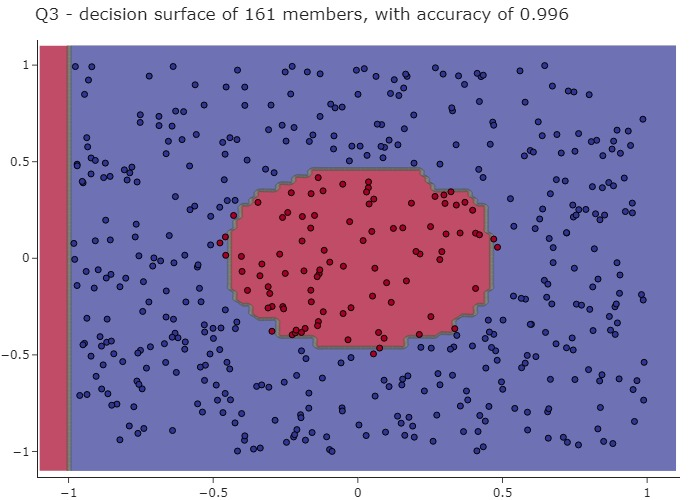
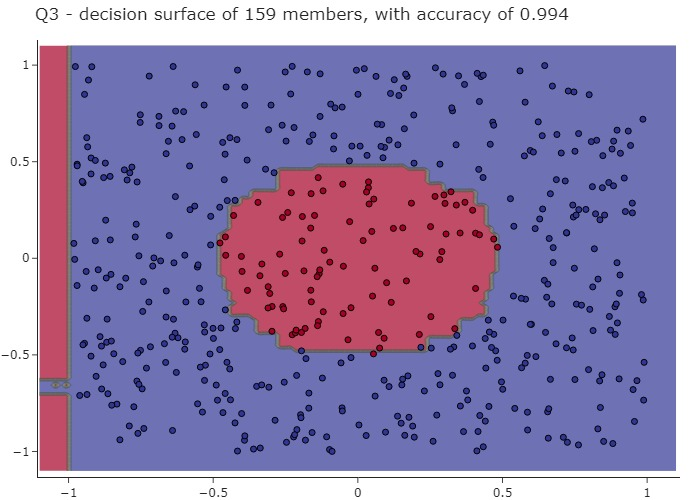
EX4 SUBMITTED

diff --git a/challenge/agoda_cancellation_estimator.py b/challenge/agoda_cancellation_estimator.py
@@ -2,14 +2,15 @@ from __future__ import annotations
 from typing import NoReturn
 
 from sklearn.linear_model import LogisticRegression, SGDClassifier
+from sklearn.metrics import f1_score
 from sklearn.neighbors import KNeighborsClassifier
 from sklearn.preprocessing import StandardScaler, MinMaxScaler
 from sklearn.svm import LinearSVC
+from sklearn.tree import DecisionTreeClassifier
 
 from IMLearn.base import BaseEstimator
 import numpy as np
 import pandas as pd
-
 
 from IMLearn.metrics import misclassification_error
 
@@ -19,7 +20,7 @@ class AgodaCancellationEstimator(BaseEstimator):
     An estimator for solving the Agoda Cancellation challenge
     """
 
-    models = []
+    model = ""
 
     def __init__(self) -> AgodaCancellationEstimator:
         """
@@ -51,39 +52,9 @@ class AgodaCancellationEstimator(BaseEstimator):
         -----
 
         """
-        # Split the Data into Training and Testing sets with test size as #30%
-        # Data scaa scaling
-        std_scaler = StandardScaler()
-        std_scaler.fit(X)
-        self.models.append(std_scaler)
-        X_train_std = std_scaler.transform(X)
-        # X_test_std = std_scaler.transform(y)
 
-        mm_scaler = MinMaxScaler()
-        mm_scaler.fit(X)
-        self.models.append(std_scaler)
-        X_train_mm = mm_scaler.transform(X)
-        # X_test_mm = mm_scaler.transform(y)
-
-        # Logistic Regression
-        logreg = LogisticRegression(max_iter=500).fit(X_train_mm, y)
-        self.models.append(logreg)
-
-        # Linear SVC
-        svc = LinearSVC().fit(X_train_mm, y)
-        self.models.append(svc)
-
-        # SGD Classifier
-        sgd = SGDClassifier(alpha=0.1).fit(X_train_std, y)
-        self.models.append(sgd)
-
-        # KNN
-        neighbors_settings = range(1, 6)
-        for n_neighbors in neighbors_settings:
-            knn = KNeighborsClassifier(n_neighbors=n_neighbors)
-            knn.fit(X, y)
-            self.models.append(knn)
-
+        self.model = sklearn.tree.DecisionTreeClassifier(max_depth=7)
+        self.model.fit(X,y)
 
     def _predict(self, X: np.ndarray) -> np.ndarray:
         """
@@ -99,13 +70,7 @@ class AgodaCancellationEstimator(BaseEstimator):
         responses : ndarray of shape (n_samples, )
             Predicted responses of given samples
         """
-        pred = np.ndarray((len(X),))
-        for model in self.models:
-            pred += model.predict(X)  # TODD - check
-
-        return np.ndarray([pred[i] // len(self.models) for i in range(len(X))])
-        # treshold = 0.5
-
+        return self.model.predict(X)
 
     def _loss(self, X: np.ndarray, y: np.ndarray) -> float:
         """
@@ -124,4 +89,5 @@ class AgodaCancellationEstimator(BaseEstimator):
         loss : float
             Performance under loss function
         """
-        return misclassification_error(y, self._predict(X))
+        return 1-sklearn.metrics.f1_score(y, self.predict(X), average="macro")
+

diff --git a/IMLearn/metalearners/adaboost.py b/IMLearn/metalearners/adaboost.py
@@ -1,5 +1,4 @@
 import numpy as np
-import tqdm
 
 from ..base import BaseEstimator
 from typing import Callable, NoReturn
@@ -50,16 +49,16 @@ class AdaBoost(BaseEstimator):
         y : ndarray of shape (n_samples, )
             Responses of input data to fit to
         """
-        D = np.array([(1 / len(X)) for _ in range(len(X))])
+        D = np.array([(1.0 / len(X)) for _ in range(len(X))])
         self.models_ = np.ndarray((self.iterations_,), dtype=self.wl_)
         self.weights_ = np.ndarray((self.iterations_,), dtype=float)
-        for t in tqdm.tqdm(range(self.iterations_)):
+        for t in range(self.iterations_):
             stump = self.wl_().fit(X, y * D)
             pred = stump.predict(X)
             e = np.sum(D * np.where((pred != y), 1, 0))
-            w = (1 / 2) * np.log((1 - e) / e)
+            w = 0.5 * np.log((1.0 - e) / e)
             D = D * np.exp(-y * w * pred)
-            D *= 1 / np.sum(D)
+            D *= 1.0 / np.sum(D)
             self.models_[t] = stump
             self.weights_[t] = w
         self.D_ = D

diff --git a/exercises/adaboost_scenario.py b/exercises/adaboost_scenario.py
@@ -110,7 +110,7 @@ def fit_and_evaluate_adaboost(noise, n_learners=250, train_size=5000,
     fig3.write_image(f"ex4/Q3 noise {noise}.jpeg")
 
     # Question 4: Decision surface with weighted samples
-    s = adaboost.D_/np.max(adaboost.D_) * 5
+    s = adaboost.D_/np.max(adaboost.D_) * 5.0
     fig4 = go.Figure(data=[decision_surface(adaboost.predict,
                                             lims[0], lims[1],
                                             showscale=False),
@@ -129,5 +129,5 @@ def fit_and_evaluate_adaboost(noise, n_learners=250, train_size=5000,
 
 if __name__ == '__main__':
     np.random.seed(0)
-    # fit_and_evaluate_adaboost(0)
+    fit_and_evaluate_adaboost(0)
     fit_and_evaluate_adaboost(0.4)

diff --git a/challenge/agoda_cancellation_prediction.py b/challenge/agoda_cancellation_prediction.py
@@ -1,5 +1,7 @@
 import math
 
+import sklearn.linear_model
+import sklearn.neural_network
 import tqdm
 from sklearn.base import BaseEstimator
 
